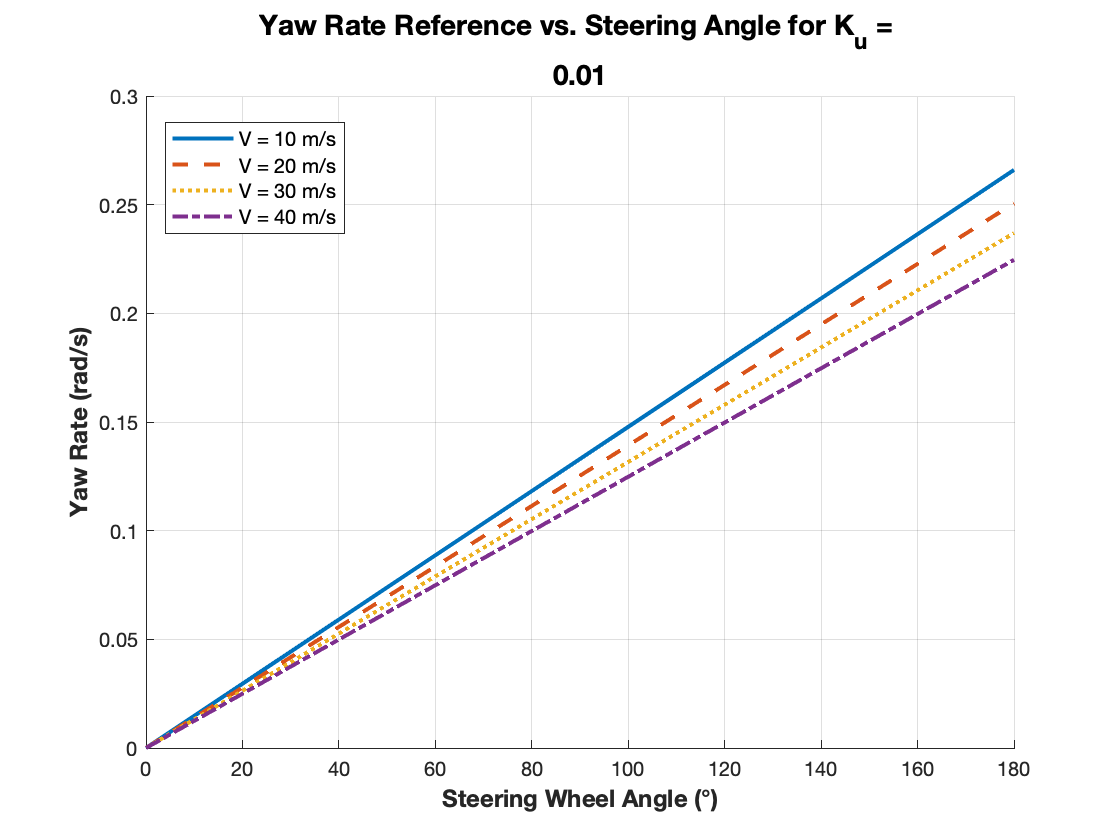
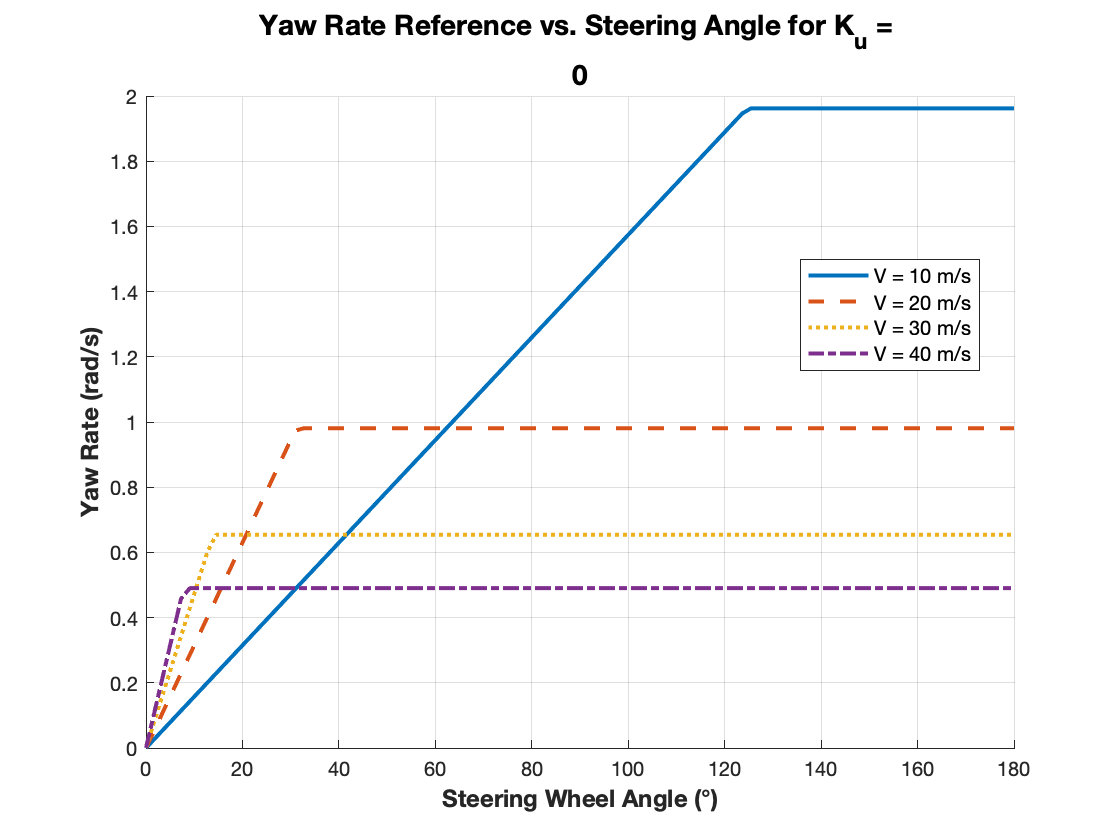
Fixed yaw rate ref equations
Updated results

diff --git a/MATLAB/yaw_rate_reference_generation/yaw_rate_ref_gen.m b/MATLAB/yaw_rate_reference_generation/yaw_rate_ref_gen.m
@@ -65,7 +65,7 @@ for i = 1:length(v)
 
     for u = 1:length(delta)
 
-        rate = delta(u) / (zr25.wheelbase + K_u * v(i)); % Y = delta_dyn / (l + K_u * V)
+        rate = v(i) / (zr25.wheelbase + K_u * v(i)^2) * delta(u); % Y = V / (l + K_u * V^2) * delta
         if (rate < yaw_rate_max)
 
             yaw_rate(i, u) = rate;
@@ -73,7 +73,7 @@ for i = 1:length(v)
             yaw_rate(i, u) = yaw_rate_max;
         end
 
-        rate_ref = delta(u) / (zr25.wheelbase + K_u_ref * v(i)); % Y = delta_dyn / (l + K_u_ref * V)
+        rate_ref = v(i) / (zr25.wheelbase + K_u_ref * v(i)^2) * delta(u); % Y = V / (l + K_u_ref * V^2) * delta
         if (rate_ref < yaw_rate_max)
 
             yaw_rate_ref(i, u) = rate_ref;
